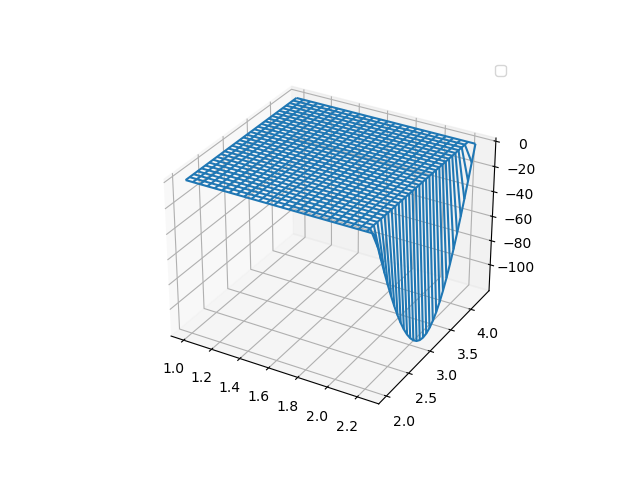
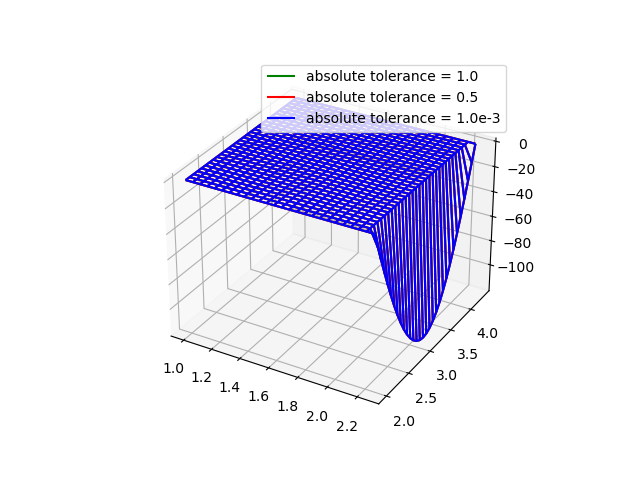
run ex_2d

Changed region(s): [[0.2812, 0.125, 0.7812, 0.7188]]

diff --git a/examples/ex_2d.py b/examples/ex_2d.py
@@ -6,9 +6,8 @@ import time
 from mpl_toolkits.mplot3d import axes3d
 
 sys.path.append(os.path.join('../'))
-#sys.path.append(os.path.dirname(os.path.realpath(__file__)) + '/../solvers')
-from solvers.esSolve import laplace2D
-from solvers.dirichlet import dirichlet as dirBC
+from lib.ESPIC3D.esSolve import laplace2D
+from lib.ESPIC3D.dirichlet import dirichlet as dirBC
 
 NX = 25
 NY = 30
@@ -35,12 +34,16 @@ VNy = dirBC(np.zeros((NX + 1)))
 
 start = time.time()
 
-potential_1 = laplace2D(
-    NX, DX, V0x, VNx, NY, DY, V0y, VNy, "gaussSeidel", relTol=0.0, absTol=1.0)
-potential_2 = laplace2D(
-    NX, DX, V0x, VNx, NY, DY, V0y, VNy, "gaussSeidel", relTol=0.0, absTol=0.5)
-potential_3 = laplace2D(
-    NX, DX, V0x, VNx, NY, DY, V0y, VNy, "gaussSeidel", relTol=0.0, absTol=1.0e-3)
+solType = "direct"
+solType = "jacobi"
+#solType ="gaussSeidel"
+
+potential_1 = laplace2D(NX, DX, V0x, VNx, NY, DY, V0y, VNy,
+                        solType, useCython=False, relTol=0.0, absTol=1.0)
+potential_2 = laplace2D(NX, DX, V0x, VNx, NY, DY, V0y, VNy,
+                        solType, useCython=False, relTol=0.0, absTol=0.5)
+potential_3 = laplace2D(NX, DX, V0x, VNx, NY, DY, V0y, VNy,
+                        solType, useCython=False, relTol=0.0, absTol=1.0e-3)
 
 end = time.time()
 
@@ -67,12 +70,20 @@ def plot2Darrays(arrays):
             ax.plot_wireframe(
                 X, Y, array[0][:], label='absolute tolerance = ' + array[1], color=array[2])
 
-    plt.legend(loc='best')
+    ax.legend()
 
 
 plot2Darrays([[potential_1, '1.0', 'green'],
               [potential_2, '0.5', 'red'],
               [potential_3, '1.0e-3', 'blue']])
 
-plot2Darrays([potential_3])
 plt.savefig("./ex_2d.png")
+
+plot2Darrays([potential_1])
+plt.savefig("./ex_2d_001.png")
+
+plot2Darrays([potential_2])
+plt.savefig("./ex_2d_002.png")
+
+plot2Darrays([potential_3])
+plt.savefig("./ex_2d_003.png")

diff --git a/examples/ex_1d_particles.py b/examples/ex_1d_particles.py
@@ -7,10 +7,10 @@ import scipy.constants
 sys.path.append(os.path.join('../'))
 #sys.path.append(os.path.dirname(os.path.realpath(__file__)) + '../solvers/')
 
-from solvers.dirichlet import dirichlet as dirBC
-from solvers.particle import particle
-from solvers.particleUtils import velocityToMomentum, momentumToVelocity
-from solvers.esSolve import laplace1D, potentialToElectricField, electricFieldAtPoint
+from lib.ESPIC3D.dirichlet import dirichlet as dirBC
+from lib.ESPIC3D.particle import particle
+from lib.ESPIC3D.particleUtils import velocityToMomentum, momentumToVelocity
+from lib.ESPIC3D.esSolve import laplace1D, potentialToElectricField, electricFieldAtPoint
 
 # Grid
 NX = 20

diff --git a/examples/ex_1d.py b/examples/ex_1d.py
@@ -4,10 +4,10 @@ import sys
 sys.path.append(os.path.join('../'))
 #sys.path.append(os.path.dirname(os.path.realpath(__file__)) + '/../solvers')
 
-from solvers.dirichlet import dirichlet as dirBC
-from solvers.particle import particle
-from solvers.particleUtils import velocityToMomentum, momentumToVelocity
-from solvers.esSolve import laplace1D, potentialToElectricField, electricFieldAtPoint
+from lib.ESPIC3D.dirichlet import dirichlet as dirBC
+from lib.ESPIC3D.particle import particle
+from lib.ESPIC3D.particleUtils import velocityToMomentum, momentumToVelocity
+from lib.ESPIC3D.esSolve import laplace1D, potentialToElectricField, electricFieldAtPoint
 
 
 NX = 100

diff --git a/lib/ESPIC3D/esSolve.py b/lib/ESPIC3D/esSolve.py
@@ -2,7 +2,7 @@ import os
 import sys
 import math
 import numpy as np
-sys.path.append(os.path.join('./'))
+sys.path.append(os.path.join('../'))
 #sys.path.append(os.path.join('.'))
 
 
@@ -84,7 +84,7 @@ def put1DArrayOnGrid(N, array):
 
 def solveLinearSystem(M, B, solType, relTol, absTol, useCython=False):
     #import linAlgSolveCy
-    from solvers.linAlgSolve import direct, jacobi, gaussSeidel
+    from lib.ESPIC3D.linAlgSolve import direct, jacobi, gaussSeidel
     #import linAlgSolve
     if solType == "direct":
         if useCython:
